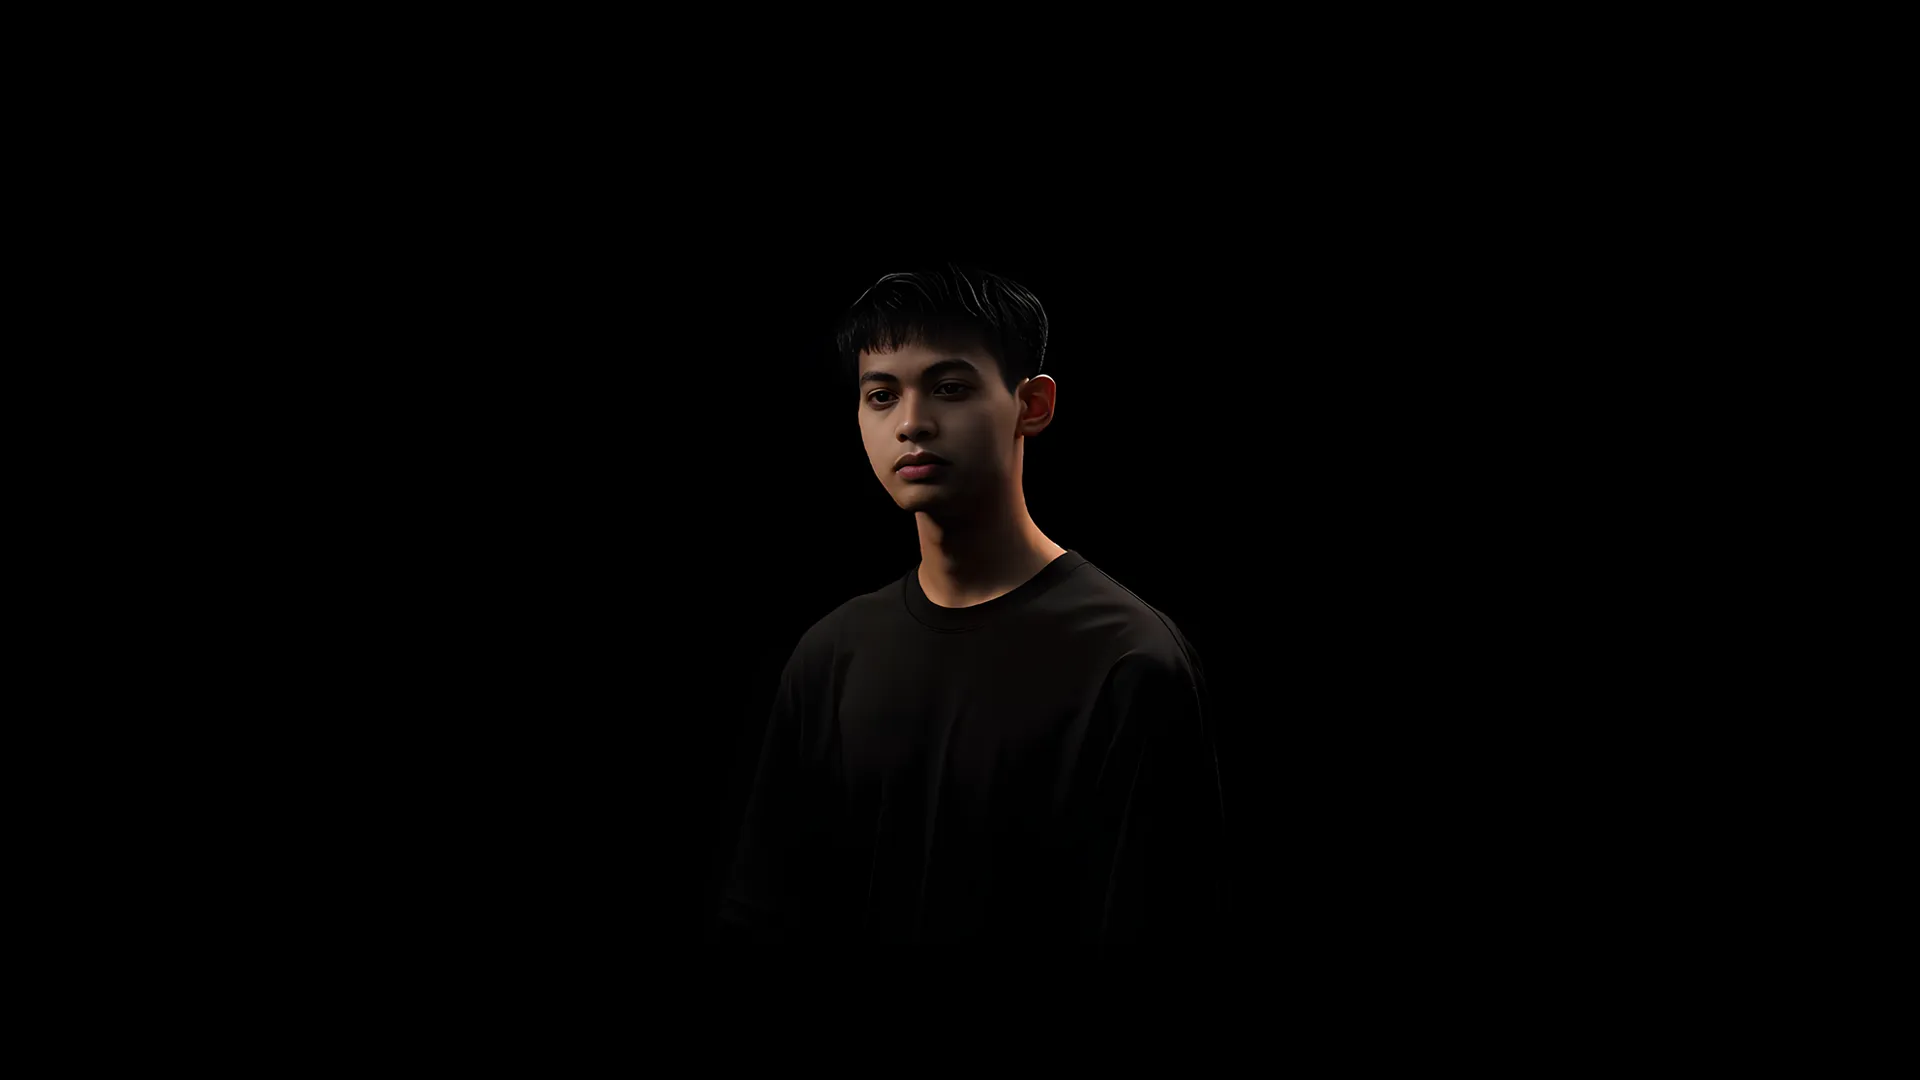
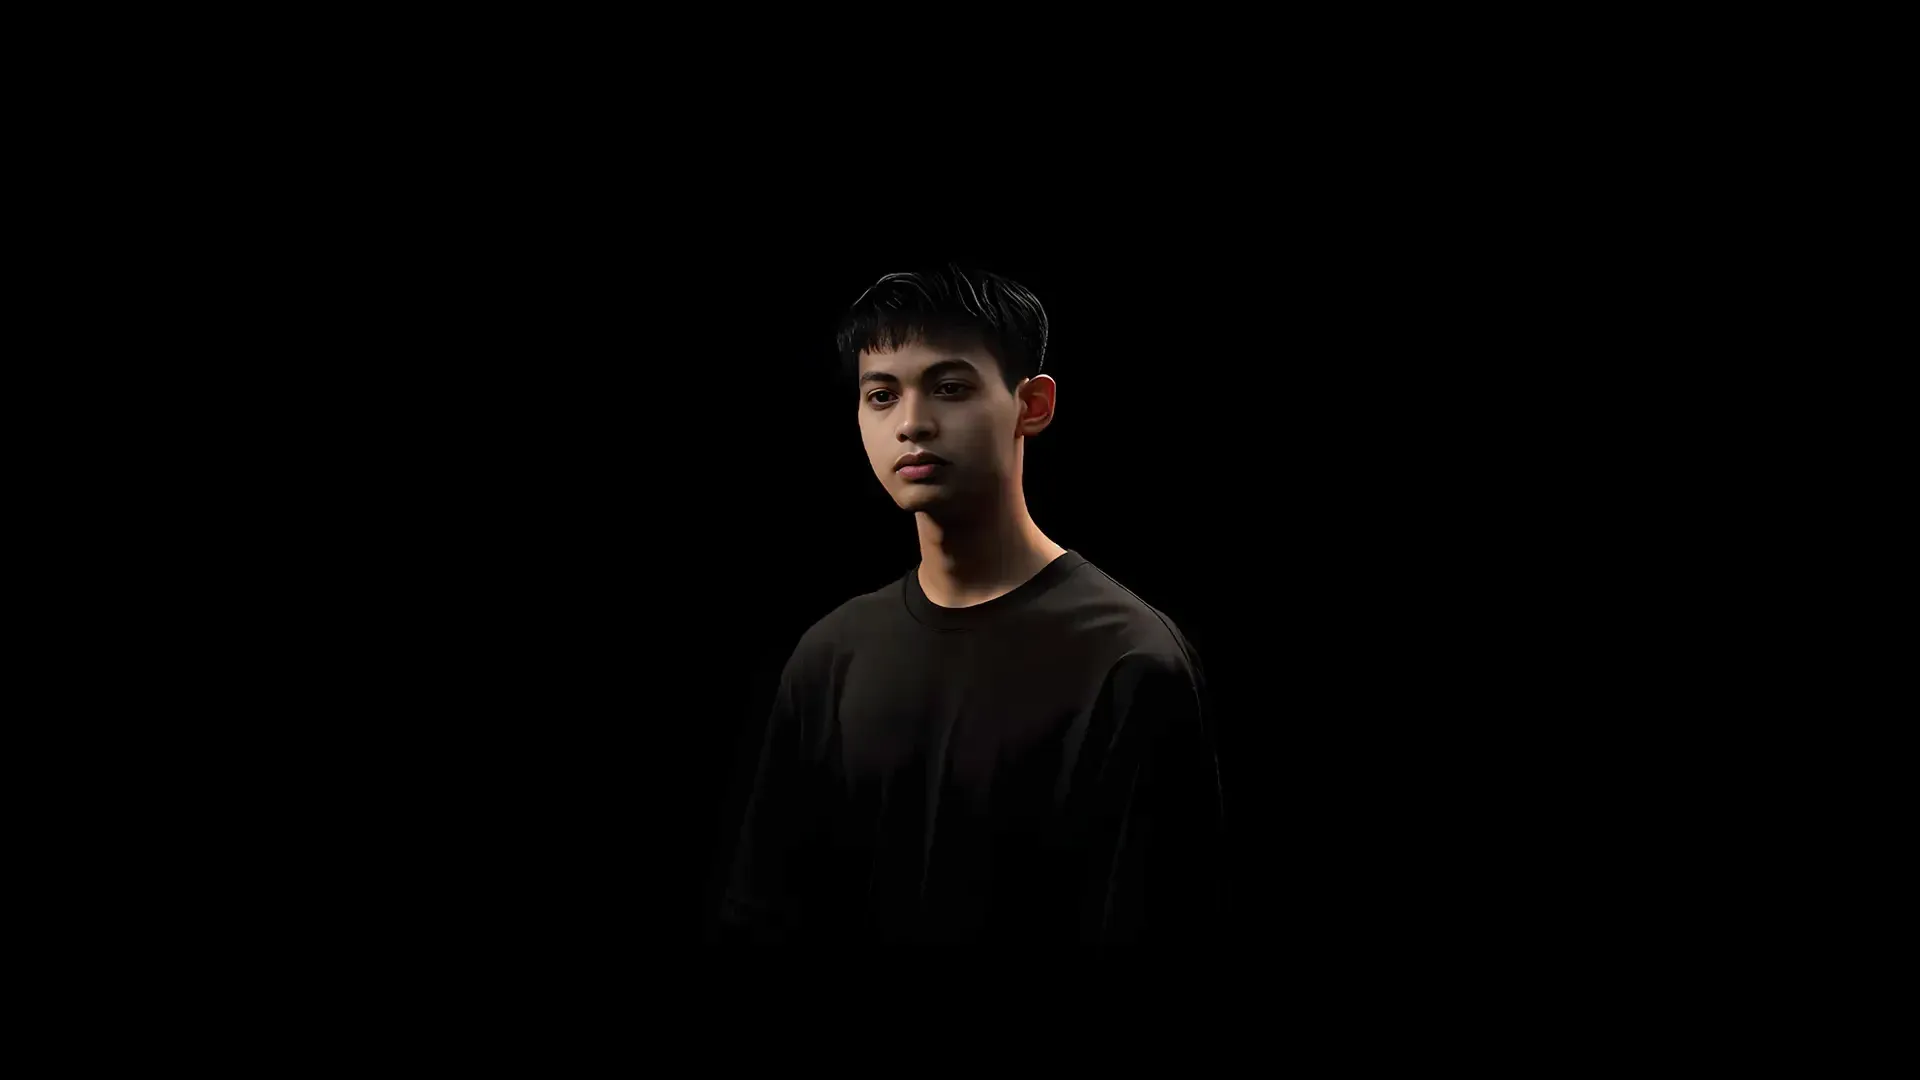
revisi about

Changed region(s): [[0.4375, 0.3056, 0.5625, 0.5806]]

diff --git a/about.html b/about.html
@@ -120,7 +120,7 @@
       </div>
       <div class="hero-top">
         <h1>Muhamad Ahimsa</h1>
-        <h1>Designer & Developer</h1>
+        <h1>Creative Developer</h1>
       </div>
       <div class="hero-bottom">
         <h1>every difficulty there must be ease</h1>
@@ -144,7 +144,7 @@
         </div>
         <div class="info-text">
           <p class="info-title">Technologies</p>
-          <p>Javascript / GSAP / Threejs / Figma / Blender / Photoshop</p>
+          <p>Javascript / GSAP / Threejs / Figma / Blender / Photoshop /After Effect</p>
         </div>
         <div class="info-close">
           <p>Close</p>

diff --git a/index.html b/index.html
@@ -167,7 +167,7 @@
         <footer>
           <div class="footer-wrapper">
             <p>Muhamad Ahimsa</p>
-            <p>Designer&Developer</p>
+            <p>Creative Developer</p>
           </div>
           <div class="footer-wrapper">
             <p>Indonesia</p>
